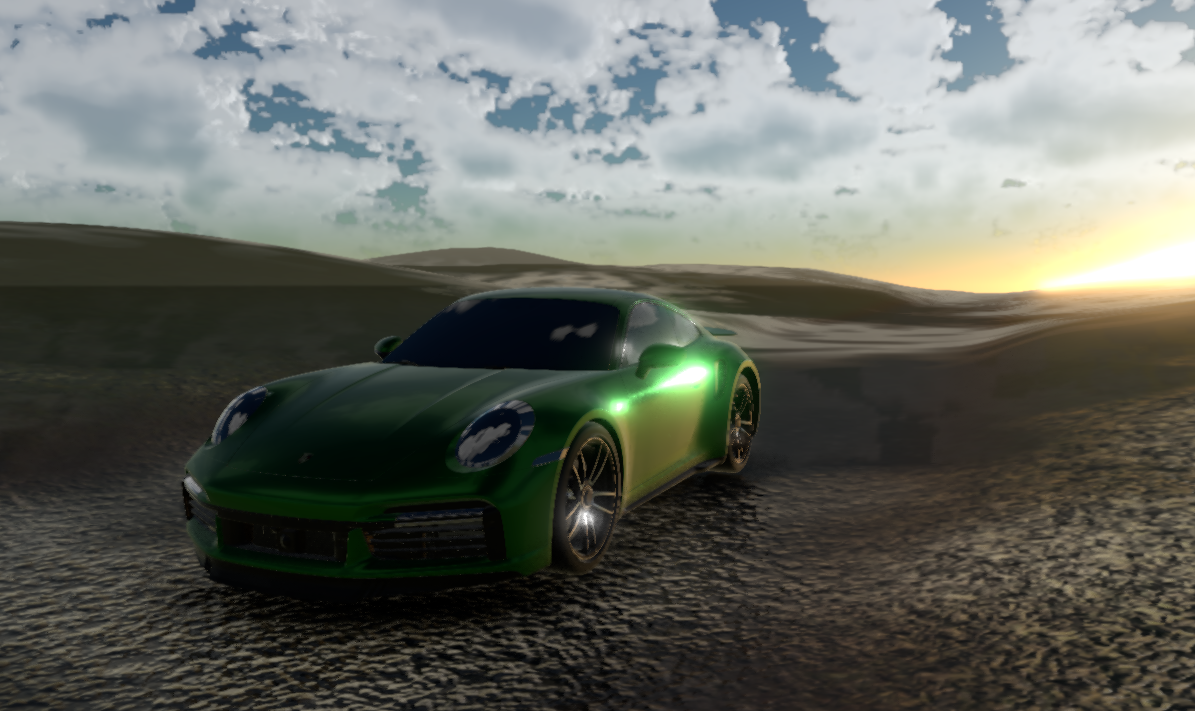
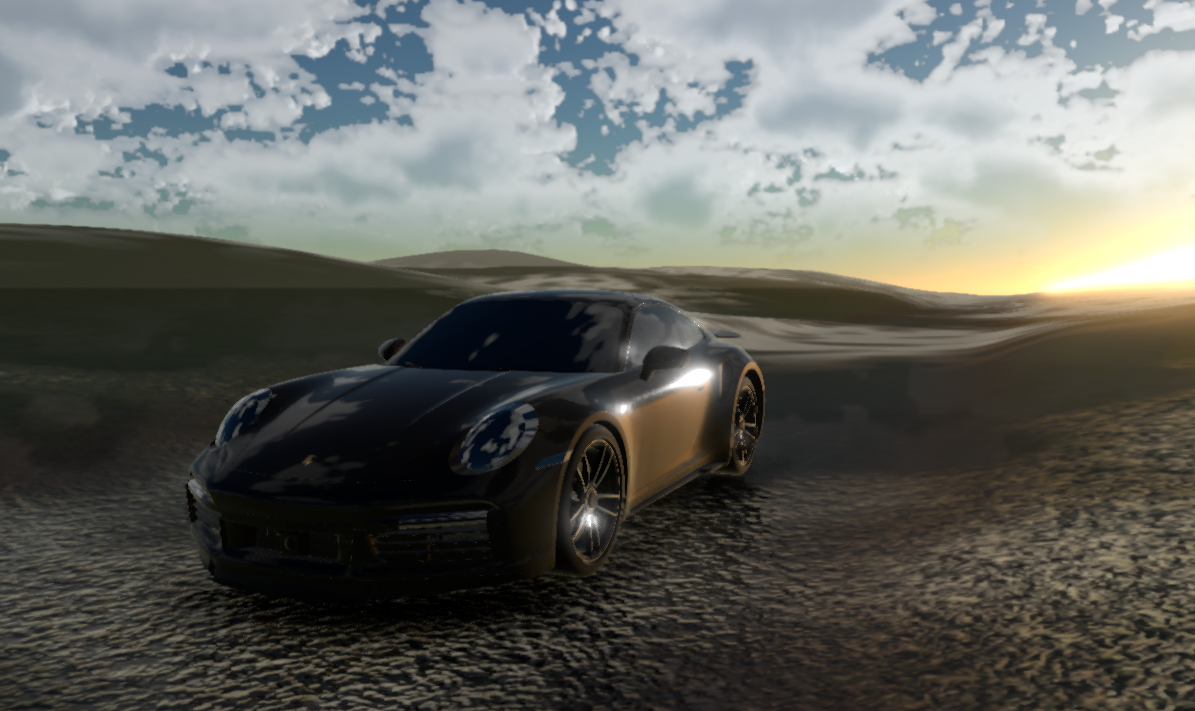
material rendering updates

diff --git a/README.md b/README.md
@@ -80,6 +80,8 @@ Using hardware raytracing, we also support pure specular reflections to simulate
   <tr>
     <td><img src="images/porsche_photos/p1.png"></td>
     <td><img src="images/porsche_photos/p2.png"></td>
+  </tr>
+  <tr>
     <td><img src="images/porsche_photos/p3.png"></td>
     <td><img src="images/porsche_photos/p4.png"></td>
   </tr>
